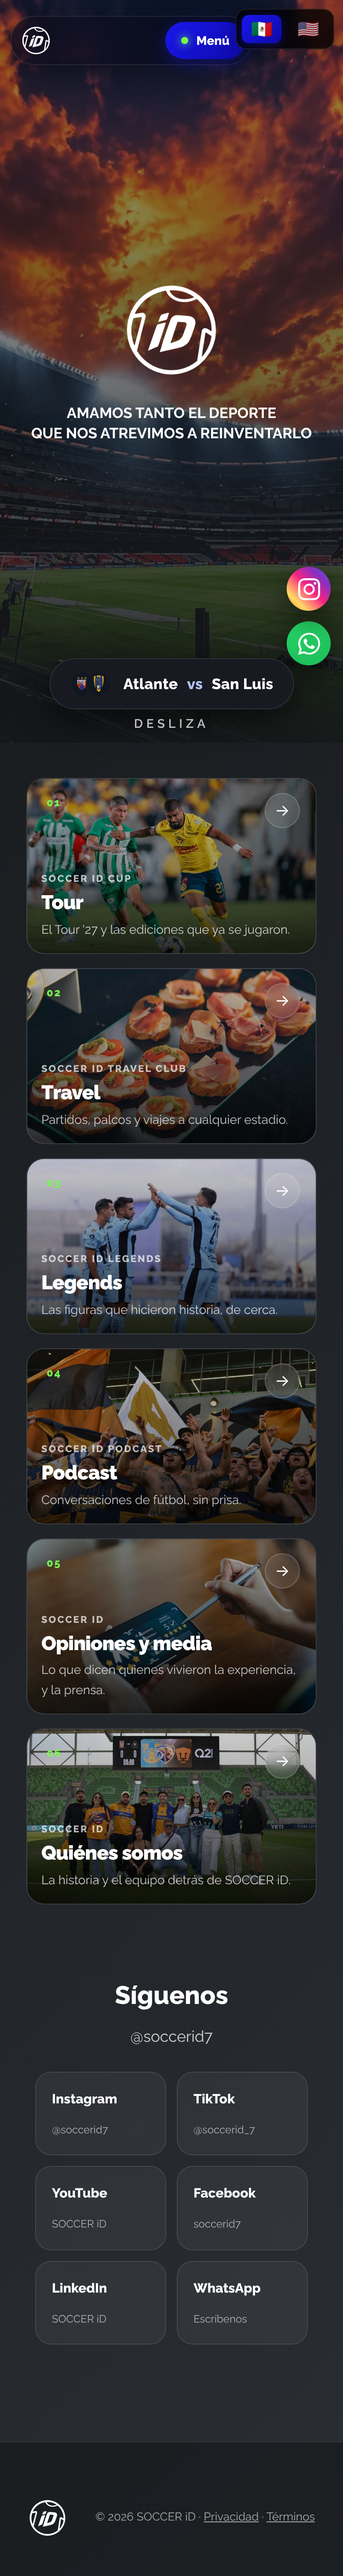
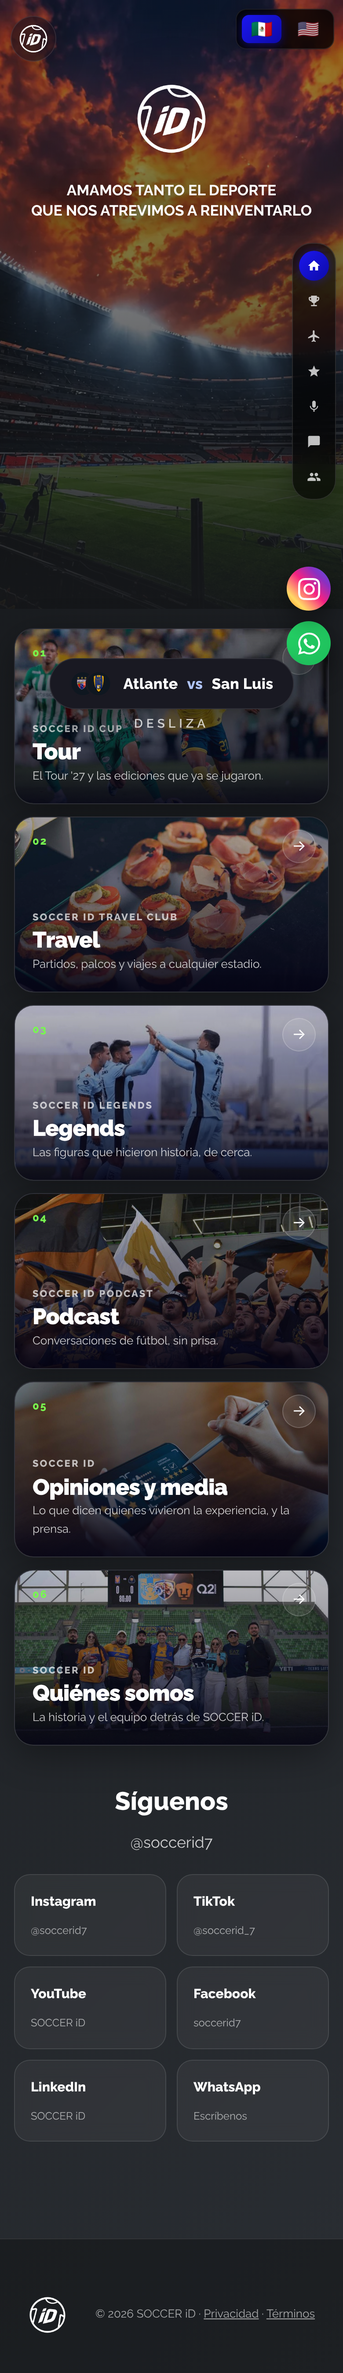
Inicio: el home es el menú en escritorio; menú lateral original en celular
En escritorio las seis secciones suben a la primera pantalla como seis
puertas verticales de vidrio sobre el estadio: se ve todo sin bajar y al
pasar el mouse la puerta se abre con su foto y su línea. La fila de redes
cierra la pantalla a los lados de la píldora del próximo partido.

En celular vuelve el menú lateral de la landing original (dot-nav) con un
ícono por sección, visible desde el inicio; la píldora se queda sólo con
el isotipo y las secciones se apilan como tarjetas.

Claude-Session: https://claude.ai/code/session_01TBS5J98YBvjYTTdc9XtUtE

diff --git a/assets/css/inicio.css b/assets/css/inicio.css
@@ -1,8 +1,8 @@
 /* ═══════════════════════════════════════════════════════════════════════
    HOME · nueva distribución sobre la base de la landing original.
-   Esta hoja SOLO añade lo nuevo (píldora, menú, bento de seis, tarjeta
-   flotante, redes). Todo lo demás (fondo, hero, vidrio, bento base,
-   preloader, dock) viene de main.css, que es lo que daba el encanto.
+   Esta hoja SOLO añade lo nuevo (píldora, menú, las seis puertas, redes).
+   Todo lo demás (fondo, hero, vidrio, dot-nav, preloader, dock) viene de
+   main.css, que es lo que daba el encanto.
    Marca: solo el isotipo, el círculo con el iD y la playera.
    Colores: el azul y el verde del logo, por variable, como manda main.css.
    ═══════════════════════════════════════════════════════════════════════ */
@@ -60,76 +60,112 @@
 .menu__redes { margin-top: auto; padding-top: 28px; display: flex; flex-wrap: wrap; gap: 8px; }
 .menu__redes a { font-size: 13px; font-weight: 700; color: #fff; text-decoration: none; padding: 9px 15px; border-radius: 999px; border: 1px solid rgba(255,255,255,0.2); background: rgba(255,255,255,0.06); }
 
-/* ─── Hero: solo retoques sobre el original ───────────────────────── */
+/* ─── Hero: el home es el menú ────────────────────────────────────── */
+/* En escritorio el contenido del hero sube (isotipo + lema arriba) y las
+   seis puertas se montan encima con margen negativo, de modo que la
+   primera pantalla ya lo tiene todo: no hay que bajar para elegir. */
 .hero-logo-text img { filter: drop-shadow(0 10px 30px rgba(0,0,0,0.5)); }
-.hero-marcas { display: flex; justify-content: center; flex-wrap: wrap; gap: 8px 18px; margin-top: 8px; }
-.hero-marcas span {
-  font-size: 12px; font-weight: 800; letter-spacing: .18em; text-transform: uppercase;
-  color: rgba(255,255,255,0.7); display: flex; align-items: center; gap: 18px;
-}
-.hero-marcas span + span::before { content: ''; width: 5px; height: 5px; border-radius: 50%; background: var(--brand-lime); }
+.hero-section { height: auto; min-height: 100vh; align-items: flex-start; padding-top: clamp(80px, 11vh, 120px); }
+.hero-logo-text img { width: 84px; height: 84px; }
+/* El tamaño del lema en celular ya está calibrado en main.css (dos líneas
+   exactas); sólo se toca en escritorio. */
+@media (min-width: 1025px) { .hero-tagline { font-size: 1.4rem; margin-bottom: 0; } }
 
-/* ─── Bento de seis secciones ─────────────────────────────────────── */
-.bento-v2 {
-  grid-template-columns: repeat(4, 1fr);
-  grid-template-rows: repeat(3, 190px);
-  grid-template-areas:
-    "tour tour travel travel"
-    "tour tour legends podcast"
-    "opiniones opiniones nosotros nosotros";
+/* ─── Las seis puertas ────────────────────────────────────────────── */
+/* Las puertas terminan 130 px antes del borde inferior de la pantalla: esa
+   banda es de la píldora del próximo partido (fija, al centro) y de las
+   redes, que se reparten a sus lados. */
+/* Alto de las puertas: lo que queda de pantalla tras el bloque de arriba
+   (≈270 px) y la banda de abajo (130 px). Medido en 1280×720 y 1440×900. */
+.puertas { --alto: clamp(250px, calc(100vh - 420px), 470px); position: relative; z-index: 4; display: flex; gap: 10px; width: min(1320px, calc(100% - 80px)); height: var(--alto); margin: calc(-1 * var(--alto) - 130px) auto 0; }
+.puerta {
+  position: relative; flex: 1; min-width: 0; border-radius: 22px; overflow: hidden; isolation: isolate;
+  text-decoration: none; color: #fff;
+  background: rgba(10, 10, 26, 0.42); border: 1px solid rgba(255,255,255,0.12);
+  backdrop-filter: blur(14px); -webkit-backdrop-filter: blur(14px);
+  box-shadow: 0 10px 40px rgba(0,0,0,0.35);
+  opacity: 0; transform: translateY(26px); animation: puertaEntra .7s cubic-bezier(.34,1.56,.64,1) forwards; animation-delay: calc(var(--i) * 80ms + 200ms);
+  transition: flex .55s cubic-bezier(.2,.8,.2,1), border-color .3s, box-shadow .3s;
 }
-.item-tour { grid-area: tour; } .item-travel { grid-area: travel; } .item-legends { grid-area: legends; }
-.item-podcast { grid-area: podcast; } .item-opiniones { grid-area: opiniones; } .item-nosotros { grid-area: nosotros; }
-.bento-v2__item { display: block; text-decoration: none; color: inherit; opacity: 0; transform: translateY(30px); animation: bentoEntra .7s cubic-bezier(.34,1.56,.64,1) forwards; animation-delay: calc(var(--i) * 90ms + 150ms); }
-@keyframes bentoEntra { to { opacity: 1; transform: none; } }
-.bento-v2__item::before { background-image: var(--foto); }
-.item-tour::before { background-position: center 12%; }
-.bento-v2__num { position: absolute; top: 18px; left: 22px; font-size: 12px; font-weight: 800; letter-spacing: .12em; color: var(--brand-lime); }
-.bento-v2__sub { font-size: 11px; font-weight: 800; letter-spacing: .14em; text-transform: uppercase; color: rgba(255,255,255,0.7); margin-bottom: 4px; }
-.bento-v2 .bento-content h3 { font-size: clamp(1.4rem, 2.4vw, 2.2rem); font-weight: 900; letter-spacing: -.02em; margin-bottom: 4px; }
-.bento-v2 .bento-content p { font-size: 14px; color: rgba(255,255,255,0.75); margin: 0; max-width: 360px; }
-.bento-v2__ir {
-  position: absolute; top: 16px; right: 18px; z-index: 3;
-  width: 40px; height: 40px; border-radius: 50%;
-  display: flex; align-items: center; justify-content: center;
-  background: rgba(255,255,255,0.1); border: 1px solid rgba(255,255,255,0.18);
-  backdrop-filter: blur(8px); -webkit-backdrop-filter: blur(8px);
-  color: #fff; font-size: 18px; transition: background .25s, transform .35s cubic-bezier(.2,.8,.2,1);
+@keyframes puertaEntra { to { opacity: 1; transform: none; } }
+.puerta::before { content: ''; position: absolute; inset: 0; z-index: -2; background: var(--foto) center / cover no-repeat; opacity: .5; transform: scale(1.06); transition: opacity .5s, transform .9s cubic-bezier(.2,.8,.2,1); }
+.puerta--tour::before { background-position: center 12%; }
+.puerta::after { content: ''; position: absolute; inset: 0; z-index: -1; background: linear-gradient(to top, rgba(5,4,21,0.92) 0%, rgba(5,4,21,0.35) 55%, rgba(5,4,21,0.1) 100%); }
+.puerta:hover { flex: 2.4; border-color: rgba(var(--brand-blue-rgb), 0.7); box-shadow: 0 16px 50px rgba(var(--brand-blue-rgb), 0.25); }
+.puerta:hover::before { opacity: 1; transform: none; }
+.puerta__num { position: absolute; top: 18px; left: 20px; z-index: 2; font-size: 12px; font-weight: 800; letter-spacing: .12em; color: var(--brand-lime); }
+.puerta__ir {
+  position: absolute; top: 14px; right: 14px; z-index: 2;
+  width: 38px; height: 38px; border-radius: 50%; display: flex; align-items: center; justify-content: center;
+  background: rgba(255,255,255,0.1); border: 1px solid rgba(255,255,255,0.18); font-size: 17px;
+  transition: background .25s, transform .35s cubic-bezier(.2,.8,.2,1);
 }
-.bento-v2__item:hover .bento-v2__ir { background: var(--brand-blue); transform: rotate(-45deg); }
-
+.puerta:hover .puerta__ir { background: var(--brand-blue); transform: rotate(-45deg); }
+.puerta__cuerpo { position: absolute; left: 20px; right: 20px; bottom: 20px; z-index: 2; display: flex; flex-direction: column; gap: 4px; }
+.puerta__sub { font-size: 11px; font-weight: 800; letter-spacing: .14em; text-transform: uppercase; color: rgba(255,255,255,0.7); white-space: nowrap; overflow: hidden; text-overflow: ellipsis; }
+.puerta__nombre { font-size: clamp(1.3rem, 1.9vw, 1.9rem); font-weight: 900; letter-spacing: -.02em; line-height: 1.05; }
+.puerta__linea { font-size: 13px; color: rgba(255,255,255,0.78); max-width: 320px; max-height: 0; opacity: 0; overflow: hidden; transition: max-height .45s, opacity .35s .1s; }
+.puerta:hover .puerta__linea { max-height: 60px; opacity: 1; }
 
 /* ─── Redes ───────────────────────────────────────────────────────── */
-.redes-v2 { padding: 40px 20px 110px; }
-.redes-v2 .section-header { margin-bottom: 26px; }
-.redes-v2__grid { display: grid; grid-template-columns: repeat(6, 1fr); gap: 12px; max-width: 1200px; margin: 0 auto; }
+/* En escritorio la fila de redes cierra la primera pantalla, justo bajo las
+   puertas; el título «Síguenos» sólo hace falta en celular. */
+.redes-v2 { position: relative; z-index: 4; height: 130px; padding: 38px 40px 0; }
+.redes-v2 .section-header { display: none; }
+/* Tres chips a cada lado de la píldora del partido, que ocupa el centro
+   (columna 4, vacía a propósito). Todos en la misma fila. */
+.redes-v2__grid { display: grid; grid-template-columns: auto auto auto minmax(380px, 1fr) auto auto auto; justify-content: space-between; align-items: center; column-gap: 8px; max-width: 1180px; margin: 0 auto; } /* 1180 y no 1320: el dock de Instagram y WhatsApp vive en el borde derecho */
+.redes-v2__chip { grid-row: 1; }
+.redes-v2__chip:nth-child(1) { grid-column: 1; } .redes-v2__chip:nth-child(2) { grid-column: 2; } .redes-v2__chip:nth-child(3) { grid-column: 3; }
+.redes-v2__chip:nth-child(4) { grid-column: 5; } .redes-v2__chip:nth-child(5) { grid-column: 6; } .redes-v2__chip:nth-child(6) { grid-column: 7; }
 .redes-v2__chip {
-  display: flex; flex-direction: column; gap: 14px; padding: 18px; border-radius: 18px; text-decoration: none; color: #fff;
+  display: inline-flex; align-items: baseline; gap: 8px; padding: 9px 14px; border-radius: 999px; text-decoration: none; color: #fff; white-space: nowrap;
   background: rgba(255,255,255,0.05); border: 1px solid rgba(255,255,255,0.1);
   backdrop-filter: blur(10px); -webkit-backdrop-filter: blur(10px);
   transition: transform .2s, border-color .2s, background .2s;
 }
 .redes-v2__chip:hover { transform: translateY(-3px); border-color: rgba(var(--brand-blue-rgb), 0.7); background: rgba(var(--brand-blue-rgb), 0.18); }
-.redes-v2__chip span { font-weight: 800; font-size: 15px; }
+.redes-v2__chip span { font-weight: 800; font-size: 13px; }
 .redes-v2__chip small { font-size: 12px; color: rgba(255,255,255,0.6); }
 .footer-content { display: flex; align-items: center; justify-content: space-between; gap: 16px; flex-wrap: wrap; max-width: 1200px; margin: 0 auto; padding: 24px 20px; color: rgba(255,255,255,0.6); font-size: 13px; }
 .footer-content a { color: inherit; }
 
-/* ─── Celular ─────────────────────────────────────────────────────── */
+/* ─── Menú lateral (dot-nav original) ─────────────────────────────── */
+/* En escritorio las puertas ya son el menú. En celular es EL menú, así
+   que se ve desde el primer momento y no espera al scroll como el original. */
+.dot-nav--inicio { display: none; }
+
+/* En laptop chica no caben los seis usuarios junto a la píldora: sólo nombres. */
+@media (min-width: 1025px) and (max-width: 1366px) { .redes-v2__chip small { display: none; } }
+
+/* ─── Celular y tableta ───────────────────────────────────────────── */
 @media (max-width: 1024px) {
-  .bento-v2 { grid-template-rows: repeat(4, 180px); grid-template-areas: "tour tour travel travel" "tour tour legends podcast" "opiniones opiniones opiniones opiniones" "nosotros nosotros nosotros nosotros"; }
-  .redes-v2__grid { grid-template-columns: repeat(3, 1fr); }
+  .hero-section { min-height: 0; height: 82vh; }
+  .puertas { display: grid; grid-template-columns: 1fr 1fr; gap: 14px; width: auto; height: auto; margin: 0; padding: 22px 16px 10px; }
+  .puerta { height: 210px; flex: none; opacity: 1; transform: none; animation: none; }
+  .puerta--tour { grid-column: 1 / -1; height: 260px; }
+  .puerta::before { opacity: .8; transform: none; }
+  .puerta__linea { max-height: none; opacity: 1; }
+  .puerta__nombre { font-size: 1.6rem; }
+  .redes-v2 { height: auto; margin-top: 0; padding: 30px 16px 110px; }
+  .redes-v2 .section-header { display: block; margin-bottom: 22px; }
+  .redes-v2__grid { display: grid; grid-template-columns: repeat(3, 1fr); gap: 12px; }
+  .redes-v2__chip:nth-child(n) { grid-column: auto; grid-row: auto; }
+  .redes-v2__chip { display: flex; flex-direction: column; gap: 12px; padding: 18px; border-radius: 18px; }
+  .redes-v2__chip span { font-size: 15px; }
+  .dot-nav--inicio { display: flex; opacity: 1; pointer-events: auto; }
 }
 @media (max-width: 768px) {
   /* El selector de idioma del layout va fijo arriba a la derecha (≈90 px);
      la píldora le deja ese hueco para no quedar debajo. */
-  .pildora { left: 12px; right: 104px; transform: none; justify-content: space-between; }
-  .pildora__nav { display: none; }
-  .bento-v2 { grid-template-columns: 1fr; grid-template-rows: none; grid-auto-rows: 200px; grid-template-areas: "tour" "travel" "legends" "podcast" "opiniones" "nosotros"; }
-  .item-tour { grid-row: span 1; }
+  /* En celular la píldora es sólo el isotipo, a la izquierda; el menú es
+     el lateral de la derecha. */
+  .pildora { left: 12px; transform: none; padding: 5px; }
+  .pildora__nav, .pildora__menu { display: none; }
+  .puertas { grid-template-columns: 1fr; }
+  .puerta, .puerta--tour { height: 200px; }
   .redes-v2__grid { grid-template-columns: repeat(2, 1fr); }
-  .hero-marcas { display: none; }
 }
 @media (prefers-reduced-motion: reduce) {
-  .bento-v2__item { animation: none; opacity: 1; transform: none; }
+  .puerta { animation: none; opacity: 1; transform: none; }
 }
